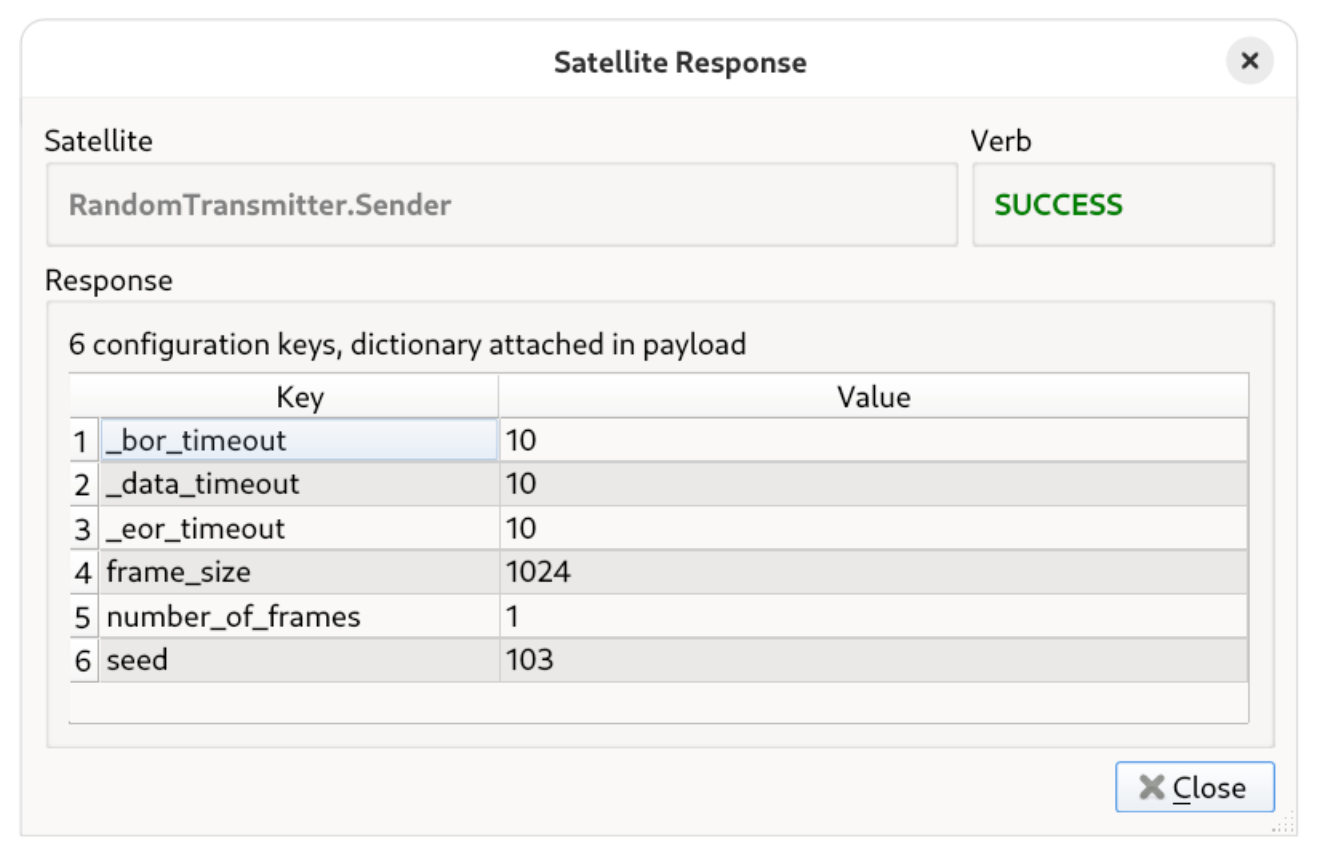
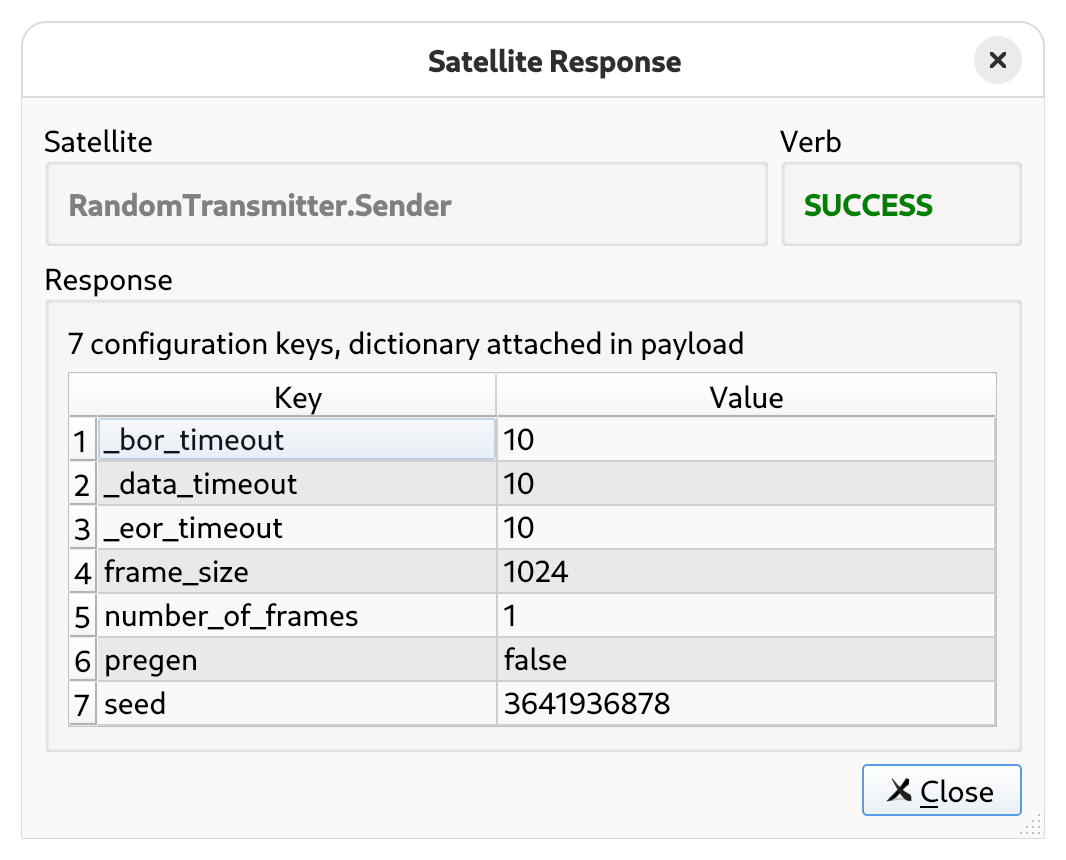
docs: update MissionControl tutorial
Closes https://gitlab.desy.de/constellation/constellation/-/issues/230

diff --git a/docs/operator_guide/tutorials/missioncontrol.md b/docs/operator_guide/tutorials/missioncontrol.md
@@ -90,7 +90,9 @@ More details on the Constellation finite state machine and its different states 
 MissionControl main window after first initialization
 ```
 
-The reason why the initialization of the `EudaqNativeWriter` failed becomes clear after checking its log messages either via the console output or a logging user interface:
+The reason why the initialization of the `EudaqNativeWriter` failed becomes clear after checking its status, which is shown
+in the "Last message" column of the satellites list, or its log messages either via the console output or a logging user
+interface:
 
 ```{error}
 Critical failure during transition: Key '_data_transmitters' does not exist
@@ -186,6 +188,17 @@ dictionary with the configuration. A satellite might also reply with a string, w
 Response window of the command
 ```
 
+## Inspecting Satellite Details
+
+To inspect details about a single satellite, for example its IP address, details can be shown by double-clicking on a
+satellite in the list. A new window opens which contains some information about its connection. It also contains a list of
+all available commands.
+
+```{figure} missioncontrol_satellite_details.png
+:scale: 33 %
+Window for connection details of a satellite
+```
+
 ## Deducing the Configuration of the Constellation
 
 Satellites are operating independently of any controller, and it is possible to start multiple controllers. This allows to
@@ -196,27 +209,28 @@ Constellation itself. This can be achieved by clicking the {bdg-primary}`Deduce`
 For the Constellation started and configured in this tutorial, this will store a configuration file with the following content:
 
 ```toml
-[satellites.Sputnik.One]
+[satellites.sputnik.one]
 interval = 2500
 
-[satellites.Sputnik.Two]
+[satellites.sputnik.two]
 interval = 3000
 
-[satellites.Sputnik.Three]
+[satellites.sputnik.three]
 interval = 3000
 
-[satellites.RandomTransmitter.Sender]
+[satellites.randomtransmitter.sender]
 _bor_timeout = 10
 _data_timeout = 10
 _eor_timeout = 10
 frame_size = 1024
 number_of_frames = 1
-seed = 77
+pregen = false
+seed = 3641936878
 
-[satellites.EudaqNativeWriter.Receiver]
+[satellites.eudaqnativewriter.receiver]
+_allow_overwriting = false
 _data_transmitters = [ 'RandomTransmitter.Sender' ]
 _eor_timeout = 10
-allow_overwriting = false
 flush_interval = 3
 output_directory = '/tmp/test'
 ```
